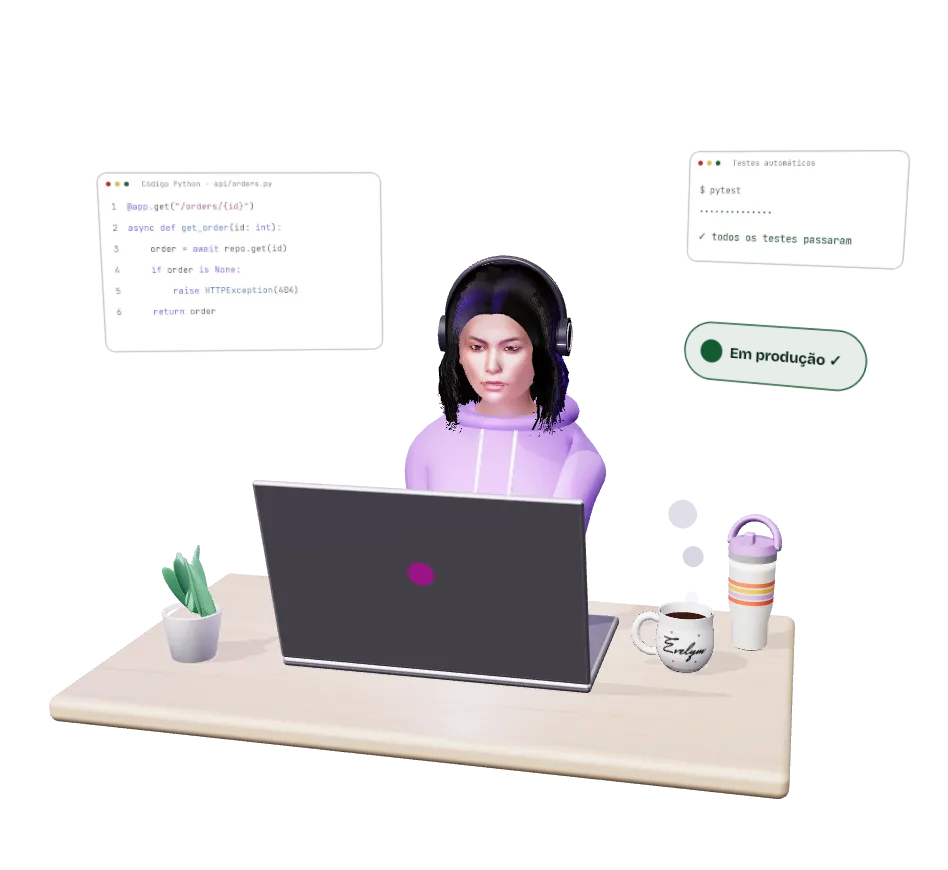
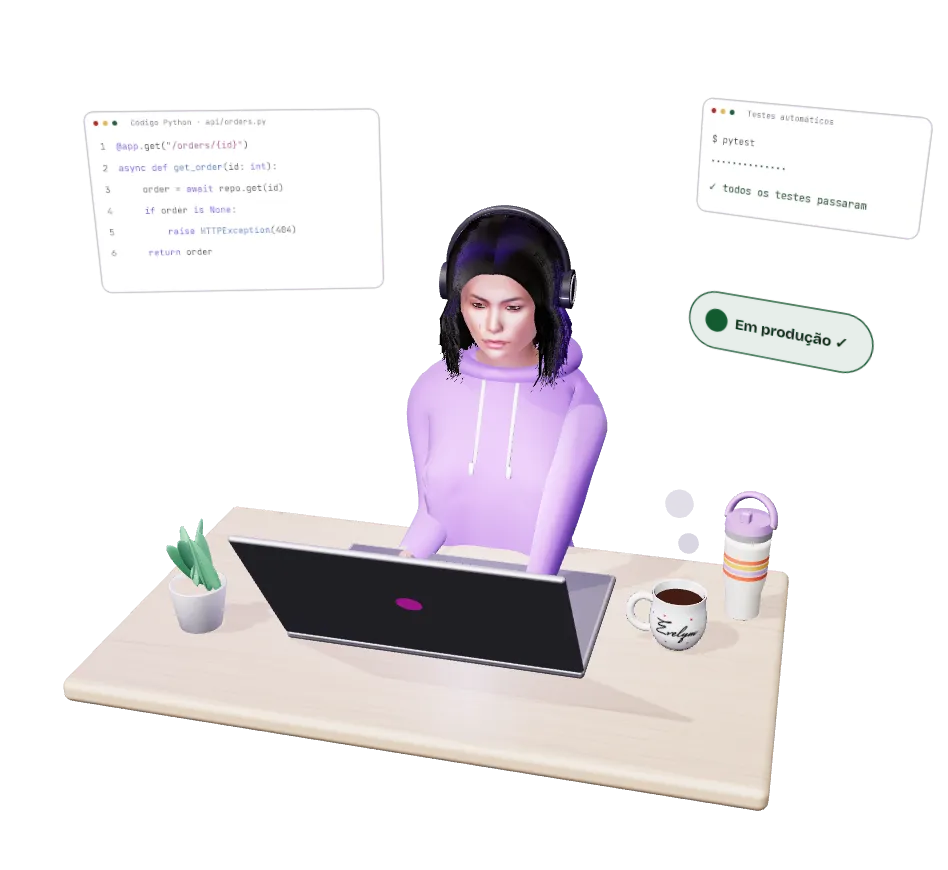
feat: mostra os braços digitando com a tampa mais aberta e a câmera mais alta

diff --git a/components/scene/hero-scene.ts b/components/scene/hero-scene.ts
@@ -387,7 +387,9 @@ export async function createHeroScene(
   );
   const lid = new Group();
   lid.position.set(0, 0.032, 0.115);
-  lid.rotation.x = 0.3;
+  // Tampa bem aberta (cerca de 125°): com a personagem modelada, a tampa mais em pé escondia antebraços e mãos, e os
+  // braços pareciam tocos (2026-11-23). Assim as mãos aparecem no teclado.
+  lid.rotation.x = 0.62;
   root.add(lid);
   mesh(new RoundedBoxGeometry(0.98, 0.64, 0.022, 4, 0.012), mAluminum, lid).position.y = 0.32;
   const bezel = mesh(new PlaneGeometry(0.95, 0.61), mBezel, lid, false);
@@ -894,7 +896,7 @@ export async function createHeroScene(
   }
 
   /* ── Quadro: história, mãos digitando, cabeça, vapor e câmera ── */
-  const lookAt = new Vector3(0, 0.66, -0.42);
+  const lookAt = new Vector3(0, 0.55, -0.42);
   const ptr = { x: 0, y: 0, tx: 0, ty: 0 };
   let progress = 0;
 
@@ -946,7 +948,8 @@ export async function createHeroScene(
     terminal.m.position.y = 1.38 + Math.sin(t * 0.6 + 1.5) * 0.025;
     badge.m.position.y = 0.92 + Math.sin(t * 0.6 + 3) * 0.02;
     // câmera em três quartos, enquadrando tudo (nada cortado), com parallax leve do ponteiro e da rolagem
-    camera.position.set(1.05 + ptr.x * 0.3, 1.55 - ptr.y * 0.2, 3.85 - progress * 0.3);
+    // câmera mais alta que a original (1,55): olha por cima da tampa e mostra os braços chegando ao teclado
+    camera.position.set(1.05 + ptr.x * 0.3, 2.3 - ptr.y * 0.2, 3.6 - progress * 0.3);
     camera.lookAt(lookAt);
   }
 

diff --git a/scripts/personagem/exportar.py b/scripts/personagem/exportar.py
@@ -158,6 +158,33 @@ def coberto(o, v):
     )
 
 
+def cair_como_tecido(obj):
+    """Na frente do tronco, o tecido cai reto a partir do ponto mais saliente acima dele: não volta para dentro abaixo do
+    busto (moletom não marca o corpo). Só no tronco, de frente, abaixo dos ombros; as mangas ficam como estão."""
+    armadura = next(o for o in bpy.data.objects if o.type == "ARMATURE")
+    ombros = centro_da_cabeca(armadura).z - 0.2
+    bracos = {g.index for g in obj.vertex_groups if g.name.startswith(("upperarm_", "lowerarm_"))}
+    mundo = [obj.matrix_world @ v.co for v in obj.data.vertices]
+    eixo_y = sum(p.y for p in mundo) / len(mundo)
+    faixas = {}
+    for v, p in zip(obj.data.vertices, mundo):
+        braco = sum(g.weight for g in v.groups if g.group in bracos)
+        if braco < 0.2 and p.y < eixo_y and p.z < ombros:
+            faixas.setdefault(round(p.x / 0.012), []).append(v.index)
+    inversa = obj.matrix_world.inverted()
+    for indices in faixas.values():
+        indices.sort(key=lambda i: -mundo[i].z)  # de cima para baixo
+        mais_a_frente = None
+        for i in indices:
+            p = mundo[i]
+            if mais_a_frente is not None and p.y > mais_a_frente:
+                p = p.copy()
+                p.y = mais_a_frente
+                obj.data.vertices[i].co = inversa @ p
+            mais_a_frente = p.y if mais_a_frente is None else min(mais_a_frente, p.y)
+    obj.data.update()
+
+
 def moletom(material):
     """O moletom numa peça só: tronco até o quadril e mangas até o punho, na mesma folga. Duas peças com folgas diferentes
     deixavam dobras e manchas na emenda do ombro (2026-11-23). A blusa curta do pacote sai.
@@ -165,6 +192,7 @@ def moletom(material):
     Generoso no pescoço: a pele do alto do peito e do ombro também é puxada pelo osso do pescoço, e excluí-la abria
     buracos. O moletom sobe até a base do pescoço, por baixo da gola do capuz."""
     copiar_pele("evelym.moletom", material, coberto, 0.015, suavizar=10, folga_dos_bracos=0.008)
+    cair_como_tecido(bpy.data.objects["evelym.moletom"])
 
     # A pele que ficou inteira por baixo do moletom sai (como fazia a máscara da blusa): assim ela nunca atravessa o
     # tecido, e o modelo fica mais leve. Fica uma borda de pele perto das aberturas (punho e gola).

diff --git a/openspec/changes/personagem-3d-modelada/tasks.md b/openspec/changes/personagem-3d-modelada/tasks.md
@@ -65,6 +65,9 @@ Termina com: a cena no navegador local com a personagem nova digitando, piscando
 >   ondulação e pontas irregulares, faces viradas para fora e material próprio na cena (preto com fios de tons
 >   variados, brilho discreto e pontas desfiadas), piscada (forma "piscar" nas pálpebras e nos cílios) e respiração;
 > - modelo agora com 2,77 MB e 53.734 triângulos: a compressão e o enxugamento do bloco 3 precisam trazê-lo à meta;
+> - braços (2026-11-23, decisão da dona): a tampa do notebook escondia antebraços e mãos, e os braços pareciam tocos. A
+>   tampa abriu mais (cerca de 125°), a câmera subiu (1,55 → 2,3) e os cotovelos abriram; o moletom cai reto na frente
+>   do tronco e não marca o corpo; os cordões descem por cima do tecido;
 > - falta: sorriso (2.6), o carregamento em paralelo do modelo (4.2) e o resto do bloco 5.
 
 ## 5. Desempenho e fechamento
